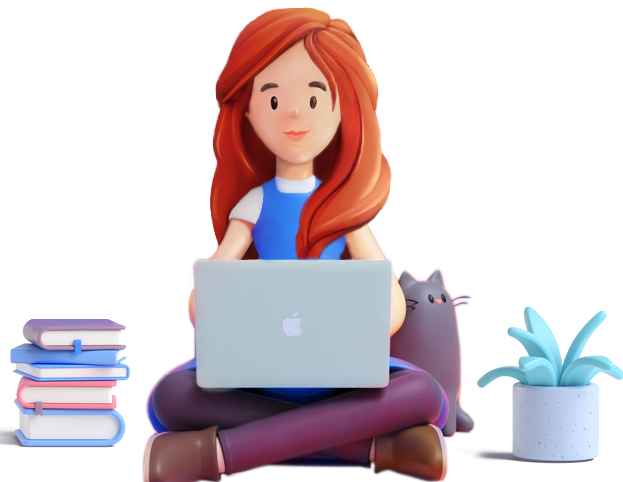
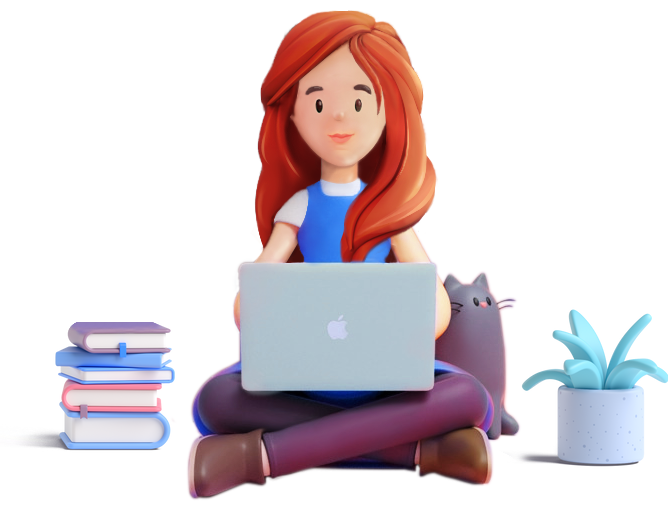
faq,image edited

diff --git a/index.html b/index.html
@@ -86,7 +86,7 @@
 
     <div class="total container">
       <div class="row">
-        <div class="col-xs-12 col-sm-12 col-md-12 col-lg-6 col-xl-6">
+        <div class="col-xs-12 col-sm-12 col-md-12 col-lg-6 col-xl-5">
           <div class="virtualPlatform-column1">
             <h6>A VIRTUAL PLATFORM</h6>
             <h3>
@@ -118,10 +118,10 @@
             </div>
           </div>
         </div>
-        <div class="col-xs-12 col-sm-12 col-md-12 col-lg-6 col-xl-6">
+        <div class="col-xs-12 col-sm-12 col-md-12 col-lg-6 col-xl-7">
           <div class="laptop-girl-background"></div>
           <div class="virtualPlatform-column2">
-            <img src="./images/homepage/laptop-girl.png" />
+            <img src="./images/homepage/laptop-girl-pic.png" />
           </div>
         </div>
       </div>
@@ -159,7 +159,7 @@
         <div class="col">
           <div class="card">
             <div class="card-body m-4">
-              <img src="./images/homepage/management 10.32.25 AM.png" />
+              <img src="./images/homepage/management .png" />
               <h5 class="card-title mt-5"><strong>Management</strong></h5>
               <p class="card-text">
                 All the hassles of monitoring, managing and tracking can now be
@@ -792,7 +792,7 @@
             data-bs-slide="prev"
           >
             <span class="carousel-control-prev-icon" aria-hidden="true">
-              <img src="./images/homepage/previousicon.png" />
+              <img src="./images/homepage/previous-icon.svg" />
             </span>
             <span class="visually-hidden">Previous</span>
           </button>
@@ -803,7 +803,7 @@
             data-bs-slide="next"
           >
             <span class="carousel-control-next-icon" aria-hidden="true">
-              <img src="./images/homepage/nexticon.png" />
+              <img src="./images/homepage/next-icon.svg" />
             </span>
             <span class="visually-hidden">Next</span>
           </button>
@@ -1086,7 +1086,7 @@
       <div class="contact container">
         <div class="footerRow row">
           <div class="firstcol col-xl-6 col-lg-6 col-md-6 sm-12 mt-3">
-            <img src="./images/homepage/junglecatFooter.png" />
+            <img src="./images/homepage/footer-icon.svg" />
             <p class="mt-3">
               A virtual edu era, Future of education
             </p>

diff --git a/style.css b/style.css
@@ -81,7 +81,7 @@ nav ul li {
   transform: rotate(145.9deg) translateZ(0);
   background: linear-gradient(180deg, #A6D3FF 0%, rgba(254, 168, 208, 0.82) 100%);
   opacity: 0.7;
-  filter: blur(204px);
+  filter: blur(254px);
 }
 .virtualPlatform-column1 h6,
 .user h6,
@@ -105,7 +105,7 @@ nav ul li {
   color: #091018;
 }
 .virtualPlatform-column2 img {
-  margin-top: 230px;
+  margin-top: 220px;
   max-width: 100%;
   height: auto;
 }
@@ -283,11 +283,11 @@ nav ul li {
 }
 .a .arrow {
   top: -3px;
-  width: 30px;
+  width: 20px;
   transition: all 0.3s ease;
 }
  .viewAll:hover .arrow {
-  width: 90px;
+  width: 60px;
 }
 .arrow{
   border: 1px solid #40a1ff;
@@ -298,7 +298,7 @@ nav ul li {
 .arrow .head,
 .arrow .head:after {
   border: 1px solid #40a1ff;
-  border-radius: 5px;
+  border-radius: 2px;
   width: 9px;
   position: absolute;
   right: -4px;
@@ -342,7 +342,11 @@ nav ul li {
 /* ------------------ FAQ -------------- */
 
 .accordion {
-  box-shadow: 0px 0px 24px rgba(0, 0, 0, 0.06);
+  box-shadow: 0px 0px 24px rgba(0, 0, 0, 0.04);
+  border-radius: 15px;
+}
+.accordion:hover {
+  box-shadow: 0px 0px 30px rgba(0, 0, 0, 0.09);
   border-radius: 15px;
 }
 .horrizondal {
